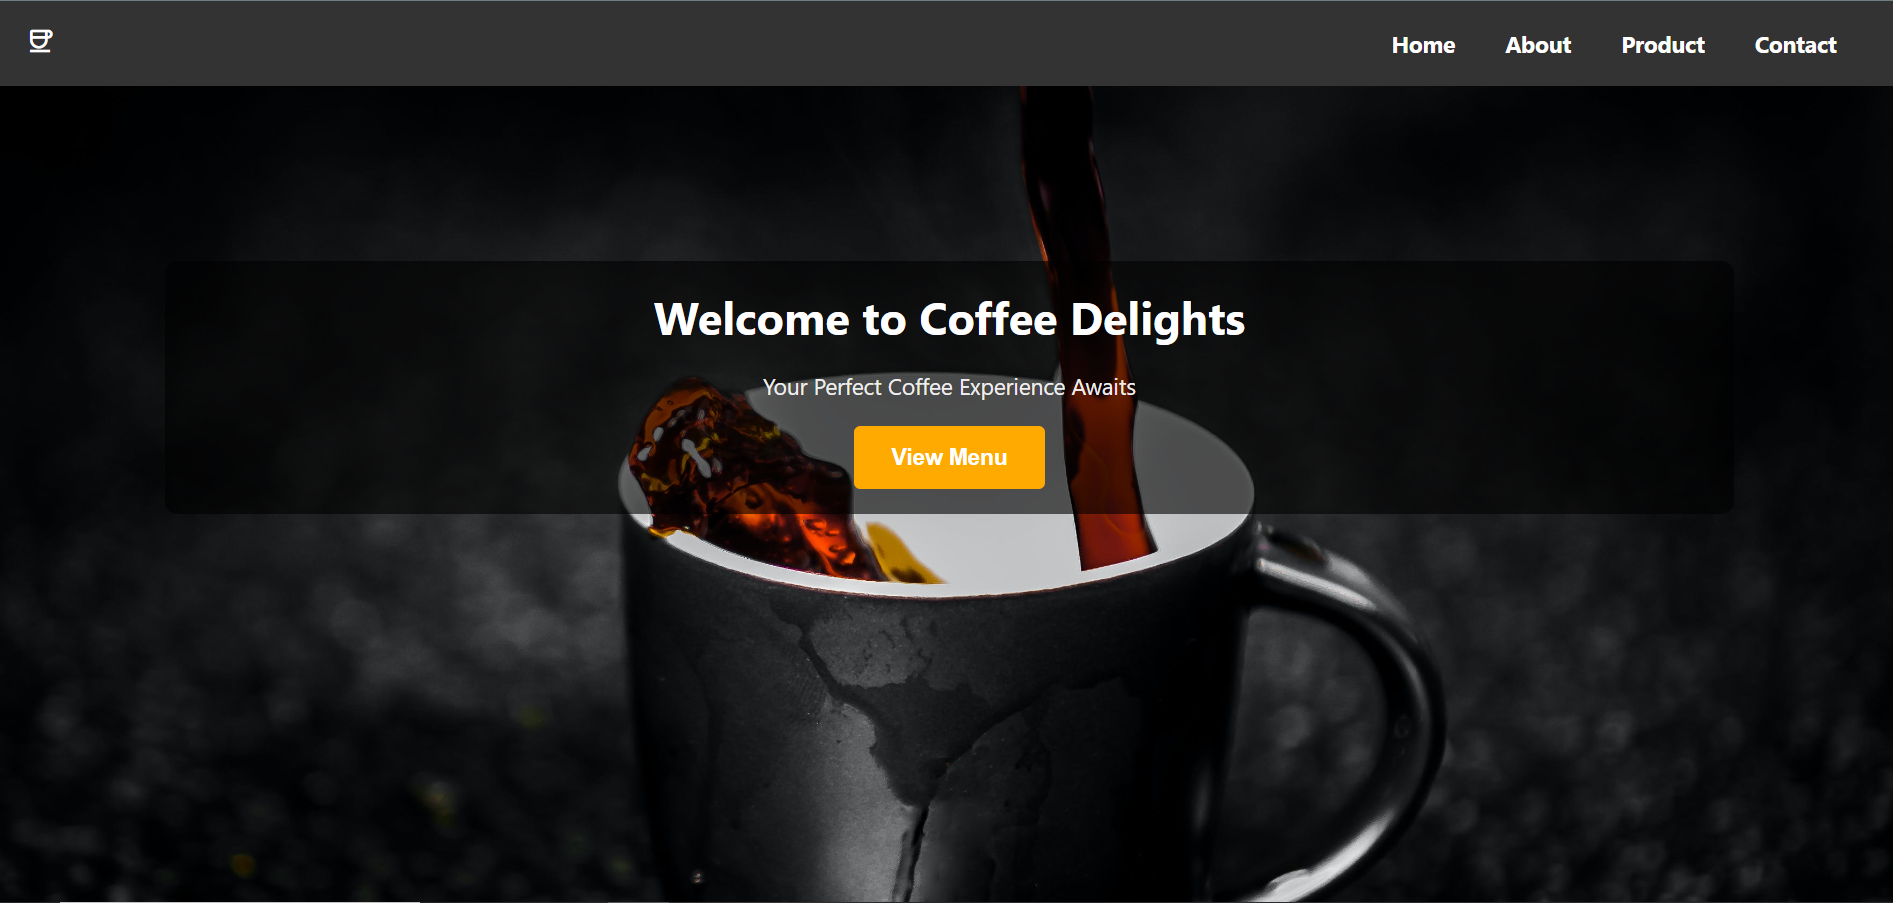
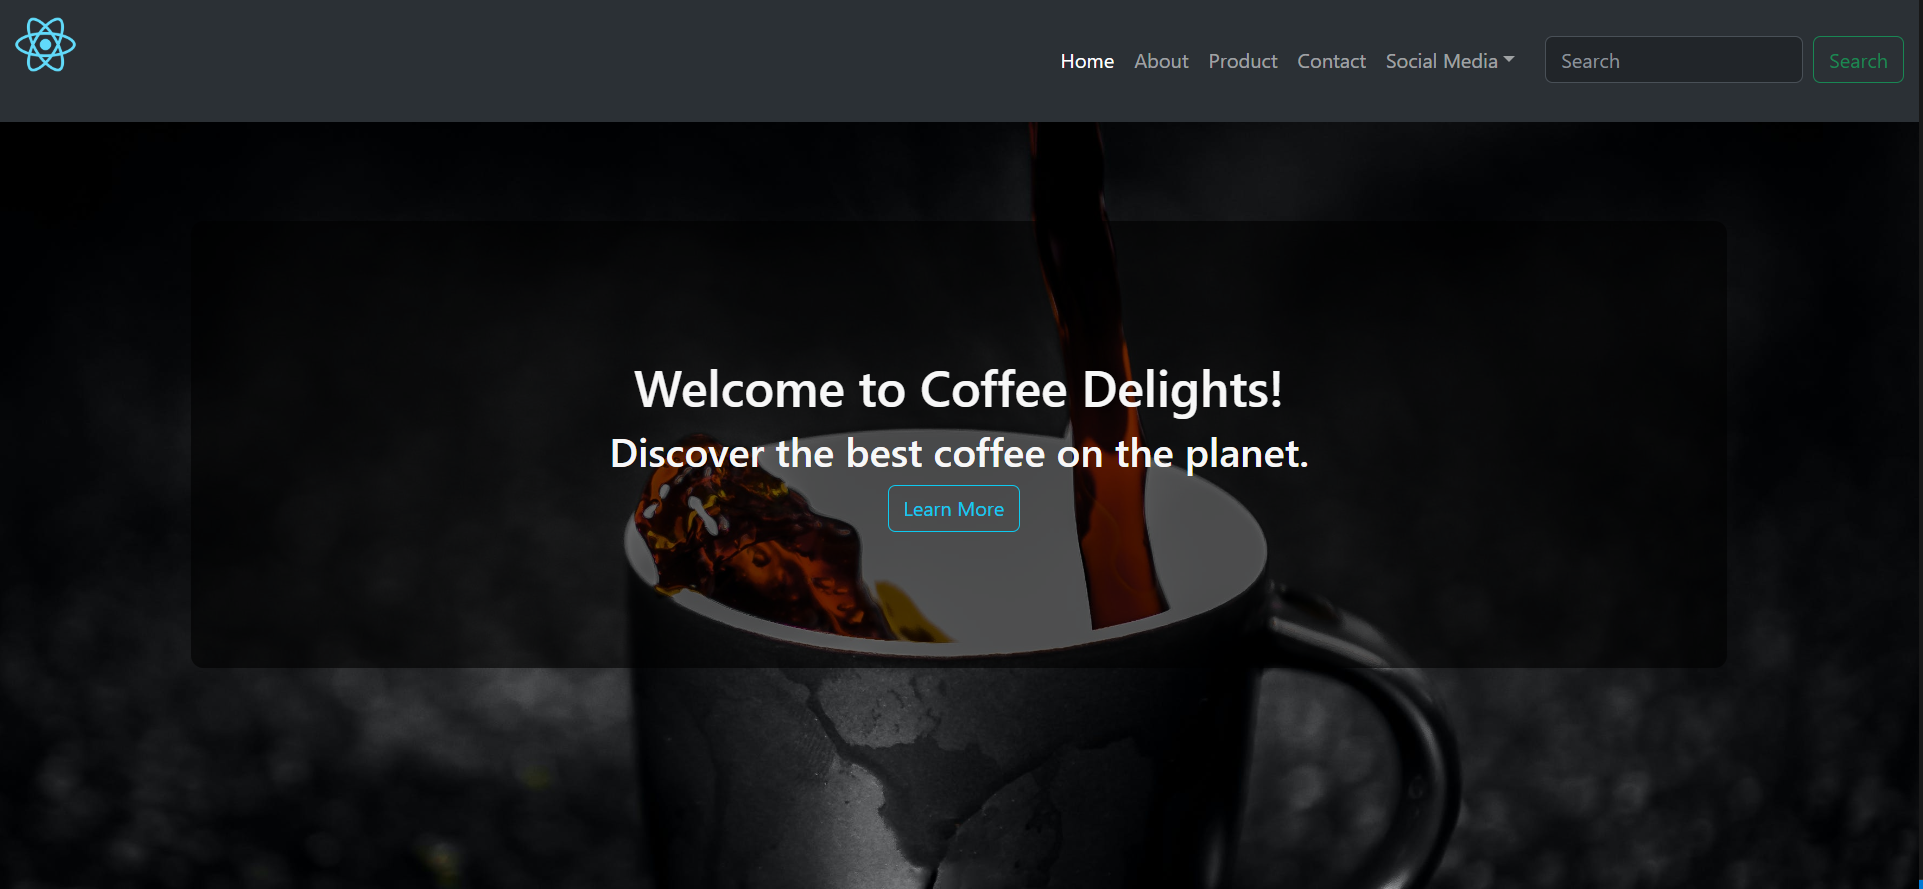
project component update

diff --git a/src/Projects.js b/src/Projects.js
@@ -7,9 +7,9 @@ function Projects() {
   const projects = [
     {
       title: "Landing Page - Coffee Shop",
-      description: "Landing Page created with React.",
-      techStack: "HTML, CSS, JavaScript, React",
-      demoLink: "https://codepen.io/bruno-mota/full/LYqWVdO",
+      description: "Landing Page created with React and Bootstrap.",
+      techStack: "HTML, CSS, JavaScript, React, and Bootstrap",
+      demoLink: "https://landingpage-coffee-shop.netlify.app/",
       codeLink: "https://github.com/bmota1988/coffee-landing-page",
       image: "./thumbnail-coffee-shop.png",
     },
